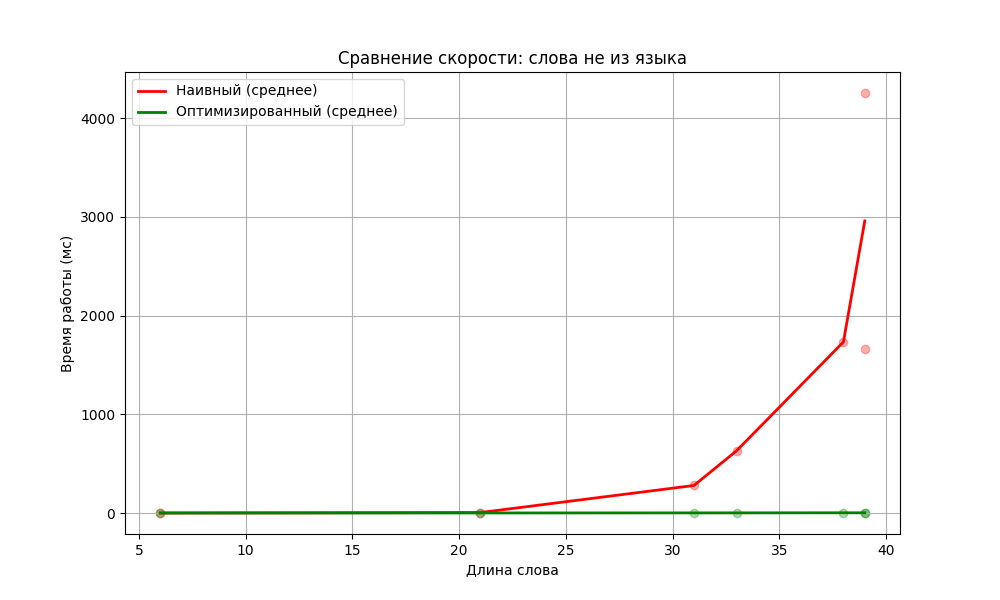
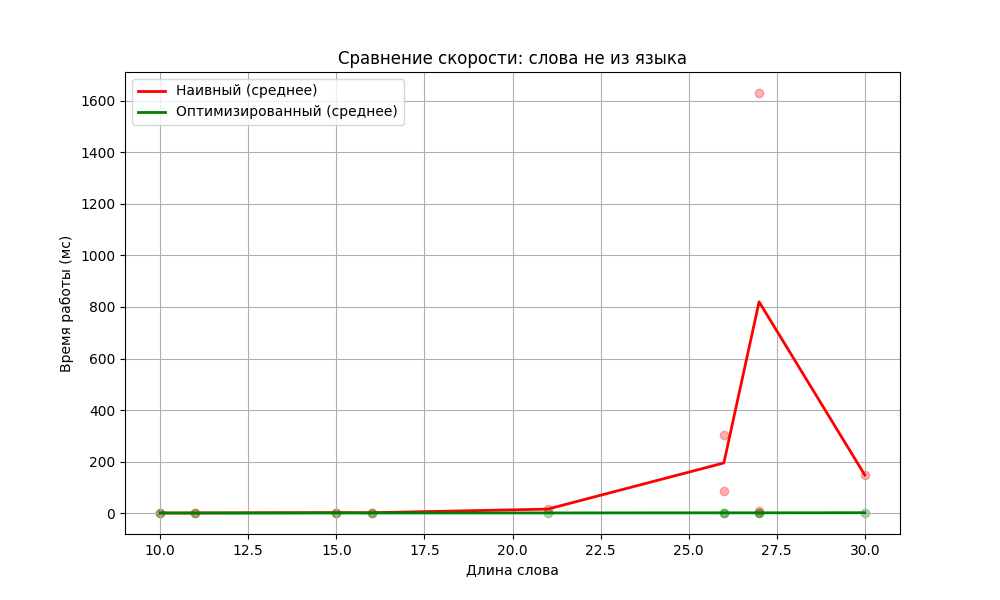
Update files

diff --git a/fazz-testing.py b/fazz-testing.py
@@ -123,44 +123,44 @@ def optimized_parse(s):
 def in_language_optimized(s):
     return bool(optimized_parse(s))
 
-def gen_positive():
-    result = ""
-    f = random.randint(0, 3)
-    if f == 3:
-        return "bbabbaabaabaabbbbaabaabaabbabb"
-    if f == 2:
-        v = random.randint(1, 2)
-        v1 = random.randint(1, 2)
-        return "bba" + "bba" * v + "abaaba" + "abb" * v1 + "bba" * v + "abaaba" + "abb" * v1 + "abb"
-    if f == 1:
-        v = random.randint(1, 3)
-        v1 = random.randint(1, 3)
-        return "bba" * v + "abaaba" + "abb" * v1
-    if f == 0:
-        return "aba"
-    return result
+def gen_S(level=0, v=-1):
+    if level == 2:
+        return "aba", 1
+    case = random.randint(1, 100)
+    if case <= 40 and (v == -1 or v == 0):
+        w, _ = gen_S(level=level + 1)
+        return "bb" * random.randint(1, 3) + w, 0
+    if 40 <= case <= 80 and (v == -1 or v == 1):
+        return "aba", 1
+    res = ""
+    if v != -1 and v != 0:
+        v3, v4 = v, v + 1
+    else:
+        v3, v4 = random.randint(1, 3), random.randint(1, 3)
+    S1, v1 = gen_S(level=level + 1)
+    S2, _ = gen_S(level=level + 1, v=v1)
+    if v == 0:
+        res += "bb" * random.randint(1, 3)
+    return res + "bba" * v3 + S1 + S2 + "abb" * v4, min(v3, v4) * (v != 0)
 
 def generate_positive_set(n):
     res = set()
     while len(res) < n:
-        res.add(gen_positive())
+        w, _ = gen_S()
+        if len(w) <= 40:
+            res.add(w)
     return list(res)
 
-def gen_negative():
-    result = gen_positive()
-    while in_language_optimized(result):
-        seq = ''.join(random.choice(['a', 'b']) for _ in range(random.randint(1, 3)))
-        pos = random.randint(0, len(result))
-        result = result[:pos] + seq + result[pos:]
+def generate_random_word(length):
+    return ''.join(random.choice(['a', 'b']) for i in range(length))
 
-    return result
-
-def generate_negative_set(n, max_blocks=3):
+def generate_negative_set(n, min_l, max_l):
     res = set()
     while len(res) < n:
-        res.add(gen_negative())
+        w = generate_random_word(random.randint(min_l, max_l))
+        if not in_language_optimized(w):
+            res.add(w)
     return list(res)
-
 
 def run_benchmark(words):
     results = []
@@ -175,7 +175,6 @@ def run_benchmark(words):
         t1 = time.perf_counter()
         rec['naive_res'] = res_naive
         rec['naive_time_ms'] = (t1 - t0) * 1000.0
-
         t0 = time.perf_counter()
         res_opt = in_language_optimized(w)
         t1 = time.perf_counter()
@@ -237,12 +236,11 @@ def plot_benchmark(results, title):
     plt.grid(True)
     plt.show()
 
-random.seed(123)
-
+#random.seed(123)
 print("\nБатч слов из языка")
-positive_results = run_benchmark(generate_positive_set(7))
+positive_results = run_benchmark(generate_positive_set(10))
 print("\nБатч слов не из языка")
-negative_results = run_benchmark(generate_negative_set(7))
+negative_results = run_benchmark(generate_negative_set(10, 10, 30))
 
 plot_benchmark(positive_results, "Сравнение скорости: слова из языка")
 plot_benchmark(negative_results, "Сравнение скорости: слова не из языка")
